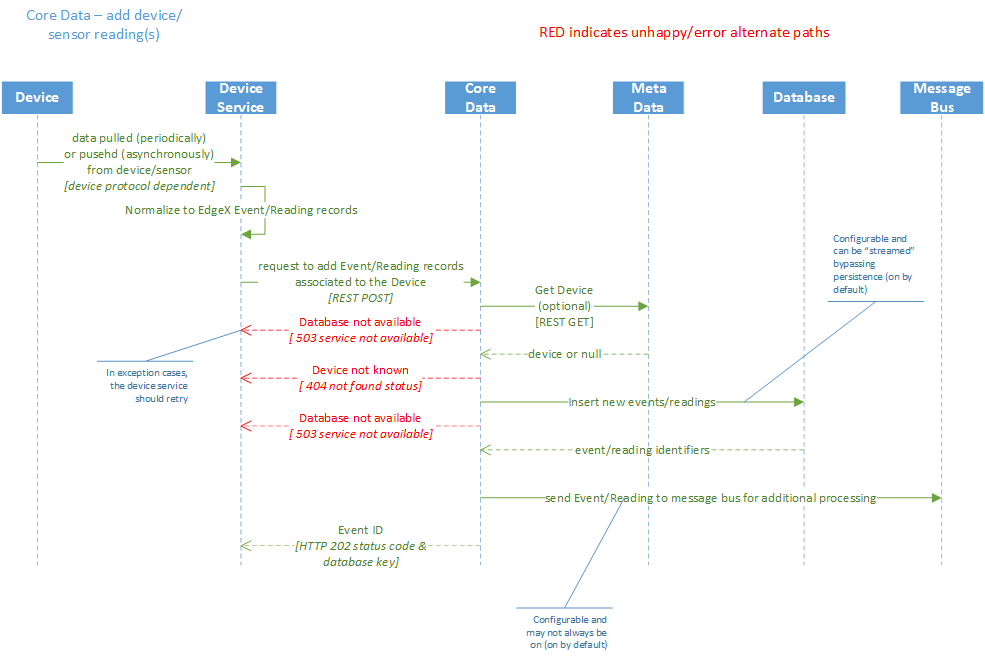
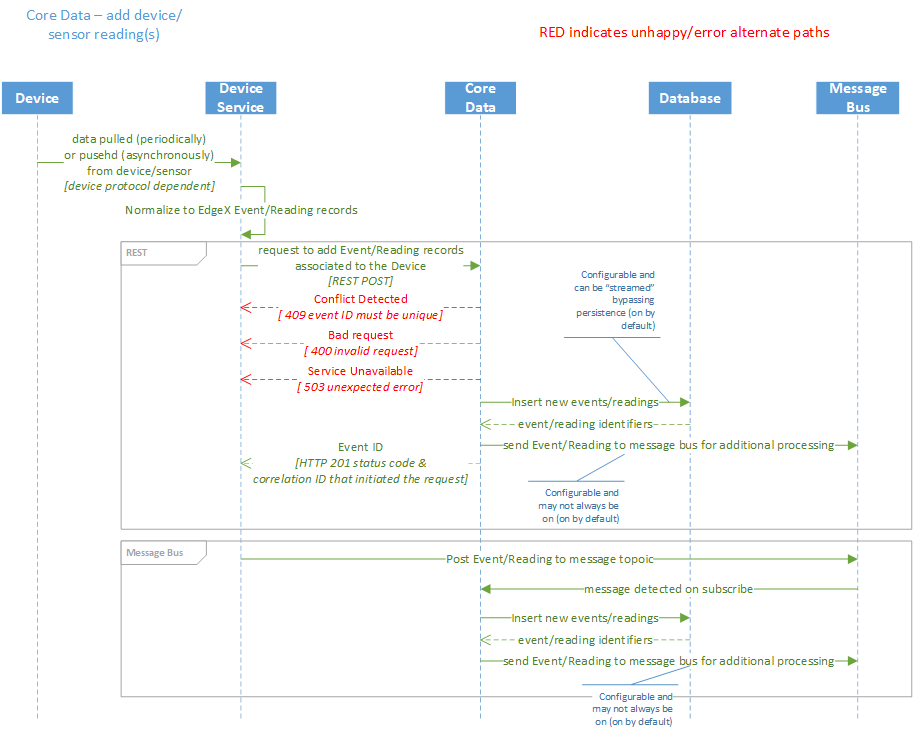
feat: update core-data microservice page to V2
fixes: #480

also updated reference definitions to add a few new definitions that are mentioned in core data

diff --git a/docs_src/microservices/core/data/Ch-CoreData.md b/docs_src/microservices/core/data/Ch-CoreData.md
@@ -10,36 +10,44 @@ store the sensor data on the edge system (such as in a
 [gateway](../../../general/Definitions.md#gateway)) until the data gets moved "north" and then exported to
 Enterprise and cloud systems.  Core data persists the data in a local database.  [Redis](https://redis.io/) is used by default, but a database abstraction layer allows for other databases to be used.
 
-!!! Note
-        EdgeX has used [MongoDB](https://www.mongodb.com/) in the past. Through the Geneva release, MongoDB is still supported but is considered deprecated.  Alternate (both open source and commercial) implementations have also been provided in the past. 
+Other services and systems, both within EdgeX Foundry and outside of EdgeX Foundry, access the sensor data through the core data service. Core data could also provide a degree of security and protection of the data collected while the data is at the edge.
 
-Other services and systems, both within EdgeX Foundry and
-outside of EdgeX Foundry, access the sensor data
-only through the core data service. Core data
-could also provide a degree of security and protection of the data collected while the data is at the edge.
+!!! edgey "EdgeX 2.0"
+    As of EdgeX 2.0 (Ireland), core data is completely optional.  Device services can send data via message bus directly to application services.  If local persistence is not needed, the service can be removed.
+    
+    If persistence is needed, sensor data can be sent via message bus to core data (the new default means to communicate with core data) or can be sent via REST to core data (the legacy way to send data to core data).  See below for more details.
 
-Core data has a REST API for moving data into and out of the local
-storage. In the future, core data could be expandable to send or access sensor data via other protocols such as MQTT, AMQP, etc. Core data moves data to the application service (and [edge analytcs](../../../general/Definitions.md#edge-analytics)) via ZeroMQ by default. EdgeX provides a message bus abstraction that supports ZeroMQ (default) and MQTT.  Use of MQTT requires the installation of a broker such as ActiveMQ.  You can also add your own implementation of the message bus abstraction as needed.
+Sensor data can be sent to core data via two different means:
+
+1. Services (like devices services) and other systems can put sensor data on a message bus topic and core data can be configured to subscribed to that topic.  This is the default means of getting data to core data.  Any service (like an application service or rules engine service) or 3rd system could also subscribe to the same topic.  If the sensor data does not need to persisted locally, core data does not have to subscribe to the message bus topic - making core data completely optional.  By default, the message bus is implemented using Redis Streams.  MQTT can be used as an alternate message bus implementation.  
+
+    ![image](EdgeX_CoreDataSubscriber.png)
+
+2. Services and systems can call on the core data REST API to send data to core data and have the data put in local storage.  Prior to EdgeX 2.0, this was the default and only means to send data to core data.  Today, it is an alternate means to send data to core data.  When data is sent via REST to core data, core data re-publishes the data on to message bus so that other services can subscribe to it. 
+
+    ![image](EdgeX_CoreDataRESTEndpoint.png)
+
+
+Core data moves data to the application service (and [edge analytcs](../../../general/Definitions.md#edge-analytics)) via Redis Streams by default. MQTT or ZeroMQ can alternately be used.  Use of MQTT requires the installation of a broker such as ActiveMQ.  A messaging infrastructure abstraction is in place that allows for other message bus (e.g., AMQP) implementations to be created and used.
 
 ## Core Data "Streaming"
 
-By default, core data persists all data collected by devices sent to it. However, when the data is too sensitive to keep
-at the edge, or there is no use for the data at the edge by other local services (e.g. by an analytics micro service), the data
-can be "streamed" through core data without persisting it. A
-configuration change to core data (PersistData=false) has core data
-send data to the application services without
-persisting the data. This option has the advantage of reducing
-latency through this layer and storage needs at the network edge.  But
-the cost is having no historical data to use for analytics that need to look back in time to make a decision.
+By default, core data persists all data sent to it by services and other systems. However, when the data is too sensitive to keep at the edge, or there is no use for the data at the edge by other local services (e.g., by an analytics micro service), the data can be "streamed" through core data without persisting it. A
+configuration change to core data (Writable.PersistData=false) has core data
+send data to the application services without persisting the data. This option has the advantage of reducing
+latency through this layer and storage needs at the network edge.  But the cost is having no historical data to use for analytics that need to look back in time to make a decision.
 
 !!! Note
     When persistence is turned off via the PersistData flag, it is off for all devices.  At this time, you cannot specify which device data is persisted and which device data is not.  [Application services](../../application/ApplicationServices.md) do allow filtering of device data before it is exported or sent to another service like the rules engine, but this is not based on whether the data is persisted or not.
 
+!!! edgey "EdgeX 2.0"
+    As mentioned, as of EdgeX 2.0 (Ireland), core data is completely optional.  Therefore, if persistence is not needed, and if sensor data is sent from device services directly to application services via message bus, core data can be removed.  In addition to reducing resource utilization (memory and CPU for core data), it also removes latency of throughput as the core data layer can be completely bypassed.  However, if device services are still using REST to send data into the system, core data is the central receiving endpoint and must remain in place; even if persistence is turned off.  
+
 ## Events and Readings
 
-Data collected from sensors is marshalled into EdgeX event and reading objects (delivered as JSON objects in service REST calls to core data).  An event represents a collection of one or more sensor readings.  Some sensors or devices are only providing a single value – a single reading - at a time. Other sensors spew multiple values whenever they are read.
+Data collected from sensors is marshalled into EdgeX event and reading objects (delivered as JSON objects or a binary object encoded as [CBOR](../../../general/Definitions.md#cbor) to core data).  An event represents a collection of one or more sensor readings.  Some sensors or devices are only providing a single value – a single reading - at a time. Other sensors spew multiple values whenever they are read.
 
-An event must have at least one reading.  Events are associated to a sensor or device – the “thing” that sensed the environment and produced the readings.  Readings represent a sensing on the part of a device or sensor.  Readings only exist as part of (are owned by) an event.  Readings are essentially a simple key/value pair of what was sensed (the key) and the value sensed (the value).  A reading may include other bits of information to provide more context (for example data type information) for the users of that data.  Consumers of the reading data could include things like user interfaces, data visualization systems and analytics tools.
+An event must have at least one reading.  Events are associated to a sensor or device – the “thing” that sensed the environment and produced the readings.  Readings represent a sensing on the part of a device or sensor.  Readings only exist as part of (are owned by) an event.  Readings are essentially a simple key/value pair of what was sensed (the key - called a [ResourceName](../../../general/Definitions.md#resource)) and the value sensed (the value).  A reading may include other bits of information to provide more context (for example, the data type of the value) for the users of that data.  Consumers of the reading data could include things like user interfaces, data visualization systems and analytics tools.
 
 In the diagram below, an example event/reading collection is depicted.  The event coming from the “motor123” device has two readings (or sensed values).  The first reading indicates that the motor123 device reported the pressure of the motor was 1300 (the unit of measure might be something like PSI).
 
@@ -60,45 +68,23 @@ The following diagram shows the Data Model for core data.  Device services send 
     |---|---|
     ||Event represents a single measurable event read from a device.  Event has a one-to-many relationship with Reading.|
     |ID|Uniquely identifies an event, for example a UUID|
-	|Pushed|A timestamp indicating when the event was exported. If unexported, the value is zero.|
-	|Device|Device identifies the source of the event, can be a device name or id. Usually the device name.|
-	|Created|A timestamp indicating when the event was created in the database|
-	|Modified|A timestamp indicating when the event was last modified.|
+	|DeviceName|DeviceName identifies the source of the event; the device's name.|
+	|ProfileName|Identifies the name of the device profile associated with the device and corresponding resources collected in the readings of the event.|
+	|SourceName|Name of the source request from the device profile (ResourceName or Command) associated to the reading.|
 	|Origin|A timestamp indicating when the original event/reading took place.  Most of the time, this indicates when the device service collected/created the event|
+    |Tags|An arbitrary set of labels or additional information associated with the event.  It can be used, for example, to add location information (like GPS coordinates) to the event.|
 	|Readings|A collection (one to many) of associated readings of a given event.
 === "Reading"
     |Property|Description|
     |---|---|
     |ID|Uniquely identifies a reading, for example a UUID|
-	|Pushed|A timestamp indicating when the reading was exported. If unexported, the value is zero.|
-	|Device|Device identifies the source of the reading, can be a device name or id. Usually the device name.|
-	|Created|A timestamp indicating when the reading was created in the database|
-	|Modified|A timestamp indicating when the reading was last modified.|
+	|DeviceName|DeviceName identifies the source of the reading; the device's name.|
+	|ProfileName|Identifies the name of the device profile associated with the device and corresponding resource collected in the reading.|
 	|Origin|A timestamp indicating when the original event/reading took place.  Most of the time, this indicates when the device service collected/created the event|
-    |Name|Name-Value provide the key/value pair of what was sensed by a device.  Name specifies what was the value collected.  Name should match a value descriptor name.|
+    |ResourceName|ResourceName-Value provide the key/value pair of what was sensed by a device.  ResourceName specifies what was the value collected.  ResourceName should match a device resource name in the device profile.|
     |Value|The sensor data value|
     |ValueType|The type of the sensor data - from a list of allowed value types that includes Bool, String, Uint8, Int8, ...|
-    |FloatEncoding|Floating point encoding format for float values|
     |BinaryValue|Byte array of sensor data when the data captured is not structured; for example an image is captured.  This information is not persisted in the Database and is expected to be empty when retrieving a Reading for the ValueType of Binary|
-    |MediaType|Indicating the type of binary data when collected|
-=== "ValueDescriptor"
-    |Property|Description|
-    |---|---|
-    ||Provide the context, unit of measure and more information about any sensed data value| 
-    |ID|Uniquely identifies a value descriptor, for example a UUID|
-	|Created|A timestamp indicating when the value descriptor was created in the database|
-	|Modified|A timestamp indicating when the value descriptor was last modified.|
-	|Origin|A timestamp indicating when the original value descriptor was created.  Most of the time, this indicates when the device service requested the value descriptor be created|
-    |Descrption|Describes what the value descriptor is used for (example: defines a thermostat temperature value)|
-    |Name|Name of the value descriptor and used as the name key in the reading|
-    |Min|Minimum allowed value|
-    |Max|Maximum allowed value|
-    |DefaultValue||
-    |Type|Value data type|
-    |UomLabel|Unit of measure label|
-    |Formatting|Printf convention for display of the value|
-    |Labels|array of associated means to label or tag a value (examples: BACNet, temp, thermostat)|
-    |FloatEncoding|Floating point encoding format for float values|
     |MediaType|Indicating the type of binary data when collected|
 
 ## High Level Interaction Diagrams
@@ -124,42 +110,34 @@ Please refer to the general [Common Configuration documentation](../../configura
     |Property|Default Value|Description|
     |---|---|---|
     ||Writable properties can be set and will dynamically take effect without service restart|
-    |DeviceUpdateLastConnected|false|When true, core data updates the last connected timestamp for the device in metadata with each event from a given device|
-    |MetaDataCheck|false|When true, core data calls metadata to check that the event's referenced device is known to meta data|
     |PersistData|true|When true, core data persists all sensor data sent to it in its associated database|
-    |ServiceUpdateLastConnected|false|When true, core data updates the last connected timestamp for the device service in metadata|
-    |ValidateCheck|false|When true, core data checks that the name (the value descriptor) of a reading is known to metadata|
-    |ChecksumAlgo|'xxHash'|Identifies the algorithm to use when calculating an event's checksum.|
 === "Service"
     |Property|Default Value|Description|
     |---|---|---|
-    |MaxResultCount|50000|Maximum number of objects (example: events) that are to be returned on any query of core data via its API|
+    |Port|59880|Default micro service port for core data|
+    |StartupMsg|This is the Core Data Microservice|Core data's bootstrap log entry startup message|
 === "Databases/Databases.Primary"
     |Property|Default Value|Description|
     |---|---|---|
-    ||Properties used by the service to access the database|
-    |Host|'localhost'|Host running the core data persistence database|
+    ||Properties used by the service to access the database.  See common configuration for common configuration in this area|
     |Name|'coredata'|Document store or database name|
-    |Password|'password'|Password used to access the database|
-    |Username|'core'|Username used to access the database|
-    |Port|6379|Port for accessing the database service - the Redis port by default|
-    |Timeout|5000|Database connection timeout in milliseconds|
-    |Type|'redisdb'|Database to use - either redisdb or mongodb|
 === "MessageQueue"
     |Property|Default Value|Description|
     |---|---|---|
     ||Entries in the MessageQueue section of the configuration allow for publication of events to a message bus|
-    |MessageQueue Protocol | tcp | Indicates the connectivity protocol to use to use the bus.|
-    |MessageQueue Host | * | Indicates the host of the messaging broker, if applicable.|
-    |MessageQueue Port | 5563 | Indicates the port to use when publishing a message.|
-    |MessageQueue Type | zero | Indicates the type of messaging library to use. Currently this is ZeroMQ by default. Refer to the [go-mod-messaging](https://github.com/edgexfoundry/go-mod-messaging) module for more information. |
-    |MessageQueue Topic | events | Indicates the topic to which messages should be published.|
+    |Protocol|'redis'|Indicates type of message bus (either redis, zero, or tcp for mqtt)|
+    |Host |'localhost'| Indicates the host of the messaging broker, if applicable.|
+    |Port | 6379 | Indicates the port to use when publishing a message.|
+    |Type | redis | Indicates the type of messaging library to use. Currently this is Redis by default. Refer to the [go-mod-messaging](https://github.com/edgexfoundry/go-mod-messaging) module for more information. |
+    |AuthMode|'usernamepassword'|The type of authentication mode used to connect to the message bus; required for redis message bus|
+    |SecretName|'redisdb'|Key to the secret store (insecure or secure) for the auth mode credentials|
+    |PublishTopicPrefix|'edgex/events/core/' #|The prefix added to `/<device-profile-name>/<device-name>` to provide the message bus topic destination.| 
+    |SubscribeEnabled|true|Indicates whether core data should subscribe to message from the message bus.  Alternate is to receive device sensor data via REST calls|
+    |SubscribeTopic|'edgex/events/device/#'|The topic to subscribe to for new event/reading messages.| 
 === "MessageQueue.Optional"
     |Property|Default Value|Description|
     |---|---|---|
-    ||Configuration and connection parameters for use with MQTT message bus - in place of 0MQ |
-    |Password|'password'|Password used to access the message system|
-    |Username|'core'|Username used to access the message system|
+    ||Configuration and connection parameters for use with MQTT message bus - in place of Redis or 0MQ |
     |ClientId|'core-data'|Client ID used to put messages on the bus|
     |Qos|'0'| Quality of Sevice values are 0 (At most once), 1 (At least once) or 2 (Exactly once)|
     |KeepAlive |'10'| Period of time in seconds to keep the connection alive when there is no messages flowing (must be 2 or greater)|

diff --git a/docs_src/general/Definitions.md b/docs_src/general/Definitions.md
@@ -7,6 +7,9 @@ To cause a machine or device to operate.  In EdgeX terms, to command a device or
 ## Brownfield and Greenfield
 Brownfield refers to older legacy equipment (nodes, devices, sensors) in an edge/IoT deployment, which typically uses older protocols.  Greenfield refers to, typically, new equipment with modern protocols.
 
+## CBOR
+An acronym for "concise binary object representation."  A binary data serialization format used by EdgeX to transport binary sensed data (like an image).  The user can also choose to send all data via CBOR for efficiency purposes, but at the expense of having EdgeX convert the CBOR into another format whenever the data needs to be understood and inspected or to persist the data. 
+
 ## Containerized
 EdgeX micro services and infrastructure (i.e. databases, registry, etc.) are built as executable programs, put into Docker images, and made available via Docker Hub (and Nexus repository for nightly builds).  A service (or infrastructure element) that is available in Docker Hub (or Nexus) is said to be containerized.  Docker images can be quickly downloaded and new Docker containers created from the images.
 
@@ -59,6 +62,9 @@ Usually, the Origin and Created time stamps are the same or very close to the sa
 
 ## Reference Implementation
 Default and example implementation(s) offered by the EdgeX community.  Other implementations may be offered by 3rd parties or for specialization.
+
+## Resource
+A piece of information or data available from a sensor or "thing".  For example, a thermostat would have temperature and humidity resources.  A resource has a name (ResourceName) to identify it ("temperature" or "humidity" in this example) and a value (the sensed data - like 72 degrees).  A resource may also have additional properties or attributes associated with it.  The data type of the value (e.g., integer, float, string, etc.) would be an example of a resource property.
 
 ## Rules Engine
 Rules engines are important to the IoT edge system.
